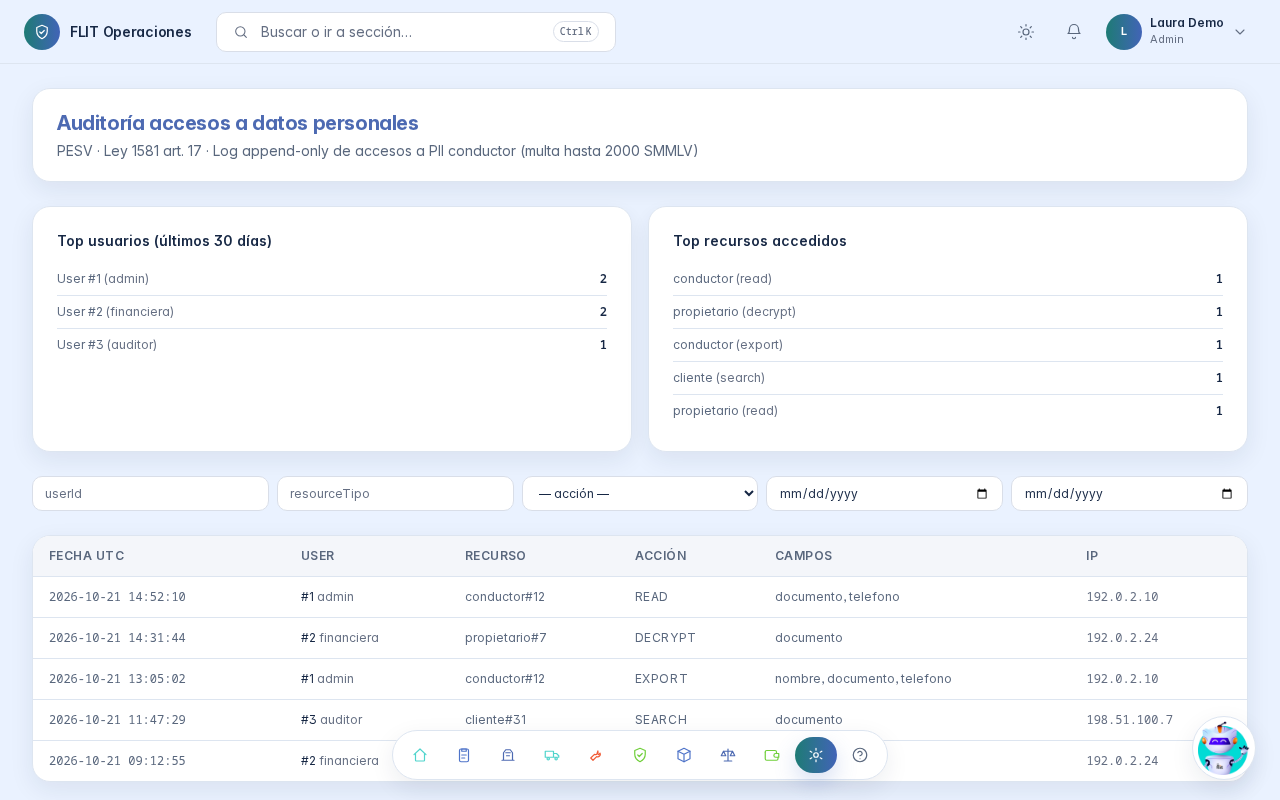
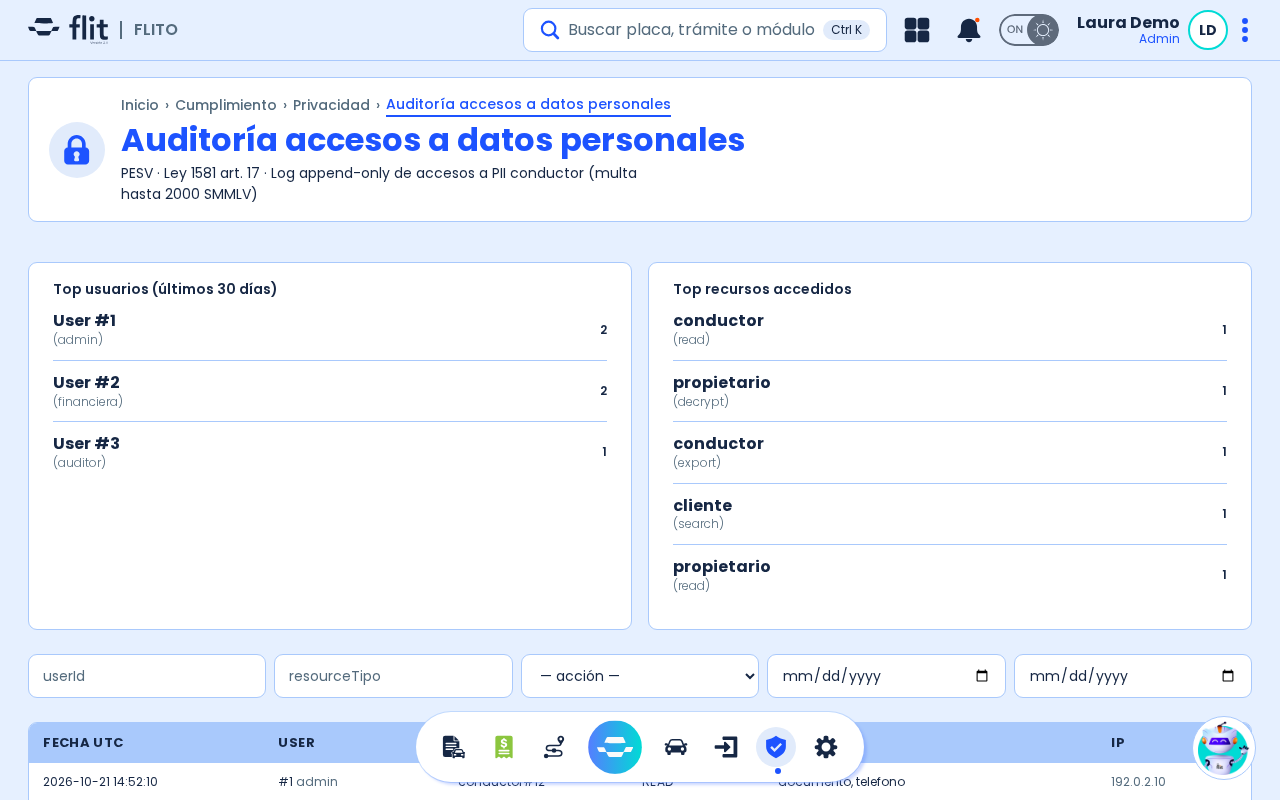
docs(web): ayuda de privacidad y capturas de S5 con el UI Kit 2026 (Épica #14560)
Capturas de privacy y privacy_log_pii regeneradas con capturas:ayuda (datos demo); ambas
fichas suben a 1.1 (texto sin cambios) y se regenera el artefacto de Dr. Flit. Capturas de
las 21 pantallas de S5 (1280 claro/oscuro, 375) y hallazgos funcionales en s5-plan.md.

diff --git a/apps/web/e2e/tests/flito-ayuda-artefactos.spec.ts b/apps/web/e2e/tests/flito-ayuda-artefactos.spec.ts
@@ -464,13 +464,14 @@ test.describe('FLITO — Ayuda · artefactos AC6/AC7', () => {
   // accesos PII describe una consulta de 3 pasos: sin diagrama. Privacidad no tiene captura del diálogo de
   // anonimización ni de su resultado (AC4).
   // HU #13951: Roles y permisos sube a 1.2 (funciones exclusivas del Administrador); sus capturas no cambian.
+  // Épica #14560 (S5): Privacidad y Log de accesos PII suben a 1.1 al regenerar sus capturas con el UI Kit 2026; el texto no cambia.
   const ADMIN_13774: Record<string, { version: string; fecha?: string; capturas: string[]; diagrama: string | null }> = {
-    privacy_log_pii: { version: '1.0', diagrama: null, capturas: ['01-resumen.png', '02-filtros.png'] },
+    privacy_log_pii: { version: '1.1', fecha: '2026-11-12', diagrama: null, capturas: ['01-resumen.png', '02-filtros.png'] },
     users: { version: '1.5', fecha: '2026-11-06', diagrama: 'ciclo-usuario.svg', capturas: ['01-usuarios.png', '02-nuevo-usuario.png', '03-historial.png'] },
     roles_permisos: { version: '1.2', fecha: '2026-10-25', diagrama: 'reparto-de-permisos.svg', capturas: [
       '01-roles.png', '02-arbol.png', '03-sin-guardar.png', '04-nuevo-rol.png'] },
     drive: { version: '1.0', diagrama: 'procesar-cuentas.svg', capturas: ['01-carpeta-raiz.png', '02-carpeta.png', '03-resultado.png'] },
-    privacy: { version: '1.0', diagrama: 'derecho-al-olvido.svg', capturas: ['01-documento.png', '02-registros-afectados.png'] },
+    privacy: { version: '1.1', fecha: '2026-11-12', diagrama: 'derecho-al-olvido.svg', capturas: ['01-documento.png', '02-registros-afectados.png'] },
     siigo_credenciales: { version: '1.1', diagrama: 'ciclo-credencial.svg', capturas: [
       '01-ambientes.png', '02-registrar.png', '03-probar-conexion.png', '04-historial.png'] },
   };

diff --git a/apps/api/src/modules/flito-dr-flit/ayuda/fichas-ayuda.generated.ts b/apps/api/src/modules/flito-dr-flit/ayuda/fichas-ayuda.generated.ts
@@ -1226,8 +1226,8 @@ export const FICHAS_AYUDA: readonly FichaAyudaApi[] = Object.freeze([
     "permiso": "privacy",
     "etiqueta": "Log accesos PII",
     "resumen": "Quién consultó datos personales, cuándo, qué campos y desde qué equipo. Solo se consulta.",
-    "version": "1.0",
-    "fecha": "2026-10-22",
+    "version": "1.1",
+    "fecha": "2026-11-12",
     "palabrasClave": [
       "log de accesos PII",
       "accesos a datos personales",
@@ -1437,8 +1437,8 @@ export const FICHAS_AYUDA: readonly FichaAyudaApi[] = Object.freeze([
     "permiso": "privacy",
     "etiqueta": "Privacidad y datos",
     "resumen": "Derecho al olvido de la Ley 1581. Previsualice qué datos guarda FLITO de un documento y, si procede, anonimícelos.",
-    "version": "1.0",
-    "fecha": "2026-10-22",
+    "version": "1.1",
+    "fecha": "2026-11-12",
     "palabrasClave": [
       "privacidad y datos",
       "derecho al olvido",

diff --git a/docs/ux/rediseno-2026/s5-plan.md b/docs/ux/rediseno-2026/s5-plan.md
@@ -132,4 +132,19 @@ declaro). Capturas en `docs/ux/rediseno-2026/s5/` a 1280 px, 375 px y tema oscur
 Regla del humano (2026-11-12): aquí solo se rediseña. Un defecto de permisos, lógica o datos no se corrige ni se radica;
 se anota aquí y pasa a la sección del mismo nombre del HANDOFF.
 
-- (ninguno aún)
+- **Diagnóstico PESV · drawer de evaluación (a11y):** axe marca en la zona de carga de evidencias un `input[type=file]`
+  sin label (crítico) y controles interactivos anidados (el `role="button"` contiene el input). Ya ocurría antes de S5
+  (comprobado con la versión previa de `EvidenciaUploader`, que además tenía un contraste insuficiente que S5 corrigió).
+  No se toca por la regla k (no cambiar `aria-*`). Spec: `pesv-diagnostico-a11y` «drawer abierto» (con `QA_AXE_CDN=1`).
+- **Diagnóstico PESV · vista auditor:** `pesv-diagnostico-auditor-readonly` (3 tests) falla igual con y sin el rediseño:
+  el fixture `COMPLIANCE_USER` (`e2e/helpers/pesv-fixtures.ts`) no trae `funciones`, y desde la HU #12872 la redirección
+  a `/auditoria` depende de la función `pesv.diagnostico_consulta.administrar`. Deriva del fixture, no del producto.
+- **Ayuda · `flito-ayuda-artefactos`:** `soat`, `flito_logistica` y `users` fallan por versión/fecha esperadas que no
+  coinciden con su ficha. Fichas ajenas a S5; no se tocan.
+
+## Capturas (2026-11-12)
+
+`docs/ux/rediseno-2026/s5/` — 21 pantallas × (1280 claro, 1280 oscuro, 375 claro), datos con `page.route`. Ninguna
+desborda en ancho. `/rndc` necesita mock de `/rndc/indicadores/resumen` (el catch-all `[]` de los E2E la tumba, igual
+que antes del rediseño). Pendiente del componente compartido de S0 (`PageHeaderCard`): a 375 px el disco del ícono se
+monta sobre la miga de pan (se ve en todas las cabeceras con `icono`).

diff --git a/apps/web/src/content/ayuda/privacy_log_pii.md b/apps/web/src/content/ayuda/privacy_log_pii.md
@@ -11,8 +11,8 @@ consultas:
   - quién consultó los datos personales de un conductor
   - cómo reviso los accesos a datos personales
   - dónde está el log de accesos PII
-version: 1.0
-fecha: 2026-10-22
+version: 1.1
+fecha: 2026-11-12
 ---
 ## Qué es
 

diff --git a/apps/web/src/content/ayuda/privacy.md b/apps/web/src/content/ayuda/privacy.md
@@ -11,8 +11,8 @@ consultas:
   - cómo atiendo una solicitud de derecho al olvido
   - cómo anonimizo los datos de una persona
   - qué datos guarda FLITO de un documento
-version: 1.0
-fecha: 2026-10-22
+version: 1.1
+fecha: 2026-11-12
 ---
 ## Qué es
 
